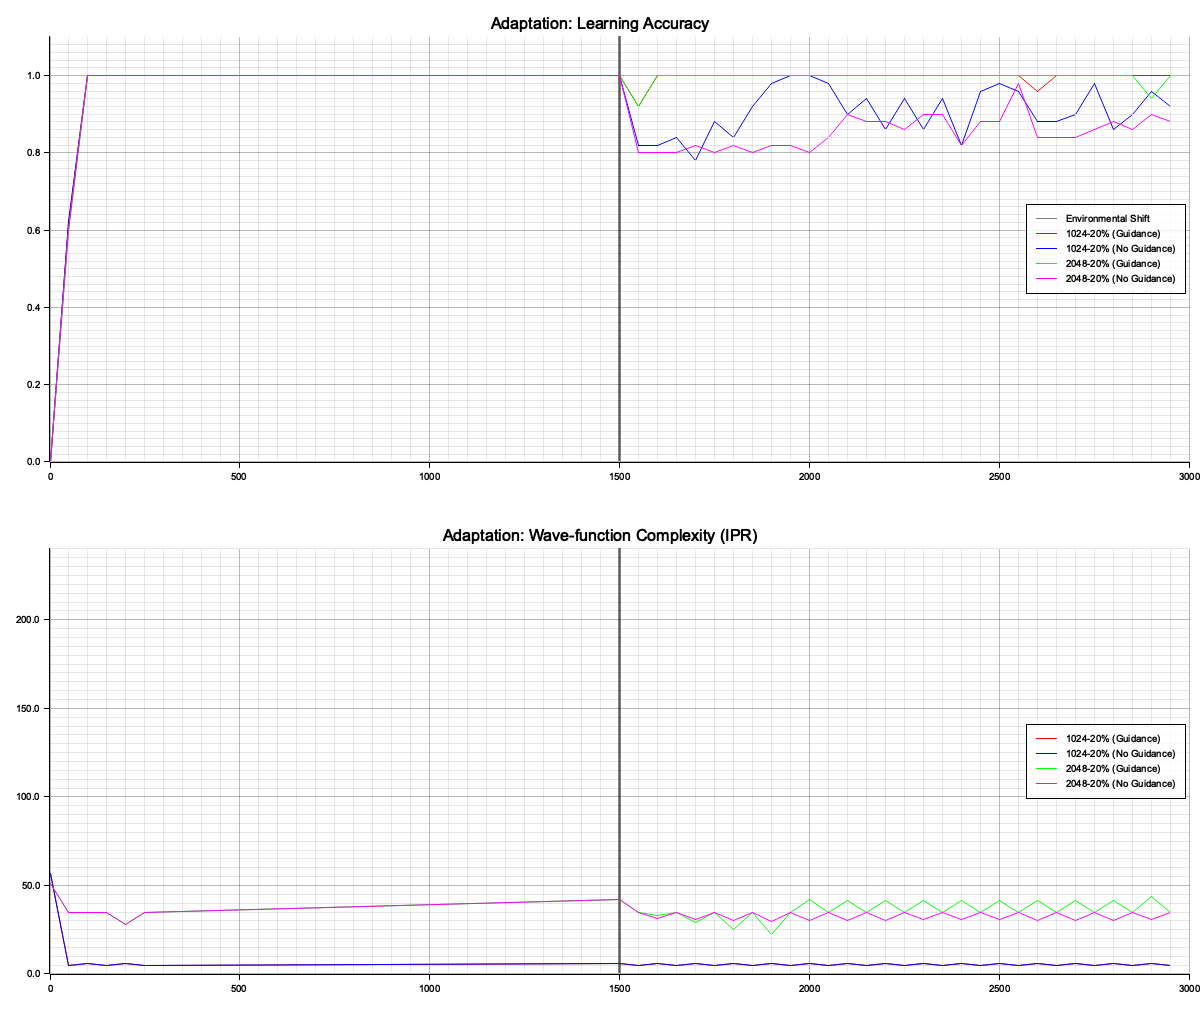
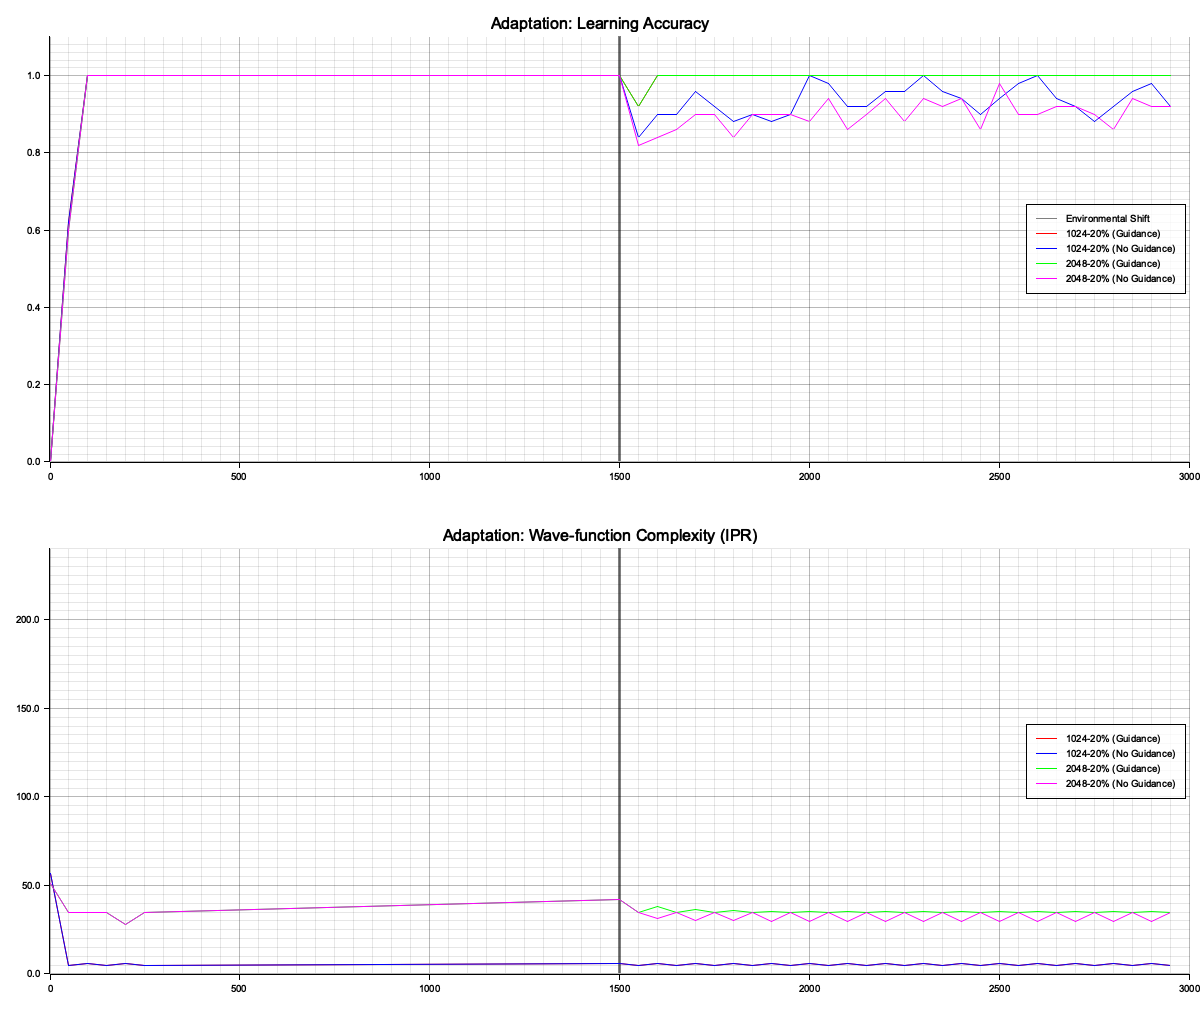
feat: Enhance MWSO with Pure-Phase Correlated Energy Landscape and topological gradient correlations

diff --git a/src/core/mwso.rs b/src/core/mwso.rs
@@ -12,10 +12,11 @@ pub struct MWSO {
     pub gravity_field: Vec<f32>, 
     pub entanglements: Vec<(usize, usize, f32)>, 
     
-    // --- Q-CEL: Quantum-Correlated Energy Landscape ---
-    // A unified holographic correlation field between inputs and states.
+    // --- PP-CEL: Pure-Phase Correlated Energy Landscape ---
     pub q_memory_re: Vec<f64>,
     pub q_memory_im: Vec<f64>,
+    pub q_topo_re: Vec<f64>,   // Topological correlation (Gradients)
+    pub q_topo_im: Vec<f64>,
     pub energy_landscape: Vec<f32>, // Dynamic potential field (V)
     pub input_signature: Vec<f32>,  // Quantized current input (Query)
     
@@ -63,6 +64,8 @@ impl MWSO {
             entanglements,
             q_memory_re: vec![0.0; dim],
             q_memory_im: vec![0.0; dim],
+            q_topo_re: vec![0.0; dim],
+            q_topo_im: vec![0.0; dim],
             energy_landscape: vec![0.0; dim],
             input_signature: vec![0.0; dim],
             scramble_phases,
@@ -82,31 +85,77 @@ impl MWSO {
         }
     }
 
-    /// Q-CEL: Imprints the correlation between the quantized input and the current state.
-    pub fn imprint_qcel(&mut self, input_idx: usize, strength: f32) {
-        // 1. Quantize Input: Generate a basis vector (signature) for the input_idx.
-        // This acts as the "Key" in the query-key memory model.
+    /// PP-CEL: Pure-Phase Correlated Energy Landscape Imprinting.
+    /// Uses pure phase correlations weighted by reward (alpha) with normalization.
+    pub fn imprint_qcel(&mut self, input_idx: usize, reward: f32) {
+        // Alpha: Weight of the memory update (Reward/Confidence)
+        let alpha = reward.max(0.1) as f64;
         let offset = (input_idx as f32 * 1.618).rem_euclid(2.0 * PI);
-        let adaptive_strength = strength as f64 * (1024.0 / self.dim as f32).sqrt() as f64;
+        
+        // Decay factor (Improvement 4: M = (1-lambda)M + alpha*Update)
+        let lambda = 0.002;
+        let dim_norm = (self.dim as f64).sqrt();
 
         for i in 0..self.dim {
+            let next_i = (i + 1) % self.dim;
+
+            // 1. Pointwise correlation (Standard PP-CEL)
+            let psi_re = self.psi_real[i] as f64;
+            let psi_im = self.psi_imag[i] as f64;
+            let psi_mag = (psi_re.powi(2) + psi_im.powi(2)).sqrt() + 1e-9;
+            let u_psi_re = psi_re / psi_mag;
+            let u_psi_im = psi_im / psi_mag;
+
             let sig_phase = self.scramble_phases[i] + offset;
             let (sig_sin, sig_cos) = sig_phase.sin_cos();
+            let sig_re = sig_cos as f64;
+            let sig_im = sig_sin as f64;
+
+            let corr_re = u_psi_re * sig_re + u_psi_im * sig_im;
+            let corr_im = u_psi_im * sig_re - u_psi_re * sig_im;
             
-            // 2. Correlation: Compute the outer product of (psi) and (input_signature).
-            // We store the correlation as: Memory += PSI * conj(Signature)
-            let corr_re = (self.psi_real[i] * sig_cos + self.psi_imag[i] * sig_sin) as f64;
-            let corr_im = (self.psi_imag[i] * sig_cos - self.psi_real[i] * sig_sin) as f64;
+            self.q_memory_re[i] = self.q_memory_re[i] * (1.0 - lambda) + corr_re * alpha / dim_norm;
+            self.q_memory_im[i] = self.q_memory_im[i] * (1.0 - lambda) + corr_im * alpha / dim_norm;
+
+            // 2. Topological Gradient Correlation (Phase differences)
+            let psi_re_next = self.psi_real[next_i] as f64;
+            let psi_im_next = self.psi_imag[next_i] as f64;
+            let psi_mag_next = (psi_re_next.powi(2) + psi_im_next.powi(2)).sqrt() + 1e-9;
+            let u_psi_re_next = psi_re_next / psi_mag_next;
+            let u_psi_im_next = psi_im_next / psi_mag_next;
+
+            // Delta PSI (Relative phase between neighbors)
+            let d_psi_re = u_psi_re * u_psi_re_next + u_psi_im * u_psi_im_next;
+            let d_psi_im = u_psi_im * u_psi_re_next - u_psi_re * u_psi_im_next;
+
+            let sig_phase_next = self.scramble_phases[next_i] + offset;
+            let (sig_sin_next, sig_cos_next) = sig_phase_next.sin_cos();
             
-            self.q_memory_re[i] += corr_re * adaptive_strength;
-            self.q_memory_im[i] += corr_im * adaptive_strength;
-            
-            // Self-organizing decay (forgetting curve)
-            self.q_memory_re[i] *= 0.9997;
-            self.q_memory_im[i] *= 0.9997;
+            // Delta SIG (Relative phase of input signature)
+            let d_sig_re = (sig_cos * sig_cos_next as f32 + sig_sin * sig_sin_next as f32) as f64;
+            let d_sig_im = (sig_sin * sig_cos_next as f32 - sig_cos * sig_sin_next as f32) as f64;
+
+            // Correlate the "shapes" (phase twists)
+            let topo_re = d_psi_re * d_sig_re + d_psi_im * d_sig_im;
+            let topo_im = d_psi_im * d_sig_re - d_psi_re * d_sig_im;
+
+            self.q_topo_re[i] = self.q_topo_re[i] * (1.0 - lambda) + topo_re * alpha / dim_norm;
+            self.q_topo_im[i] = self.q_topo_im[i] * (1.0 - lambda) + topo_im * alpha / dim_norm;
         }
 
-        self.normalize_q_memory((self.dim as f64 * 0.05).min(50.0));
+        // Keep memories bounded
+        self.normalize_q_memory(5.0);
+        self.normalize_q_topo(3.0);
+    }
+
+    fn normalize_q_topo(&mut self, target_norm: f64) {
+        let mut total_energy_sq = 0.0;
+        for i in 0..self.dim { total_energy_sq += self.q_topo_re[i].powi(2) + self.q_topo_im[i].powi(2); }
+        let norm = total_energy_sq.sqrt();
+        if norm > 1e-12 {
+            let factor = target_norm / norm;
+            for i in 0..self.dim { self.q_topo_re[i] *= factor; self.q_topo_im[i] *= factor; }
+        }
     }
 
     fn normalize_q_memory(&mut self, target_norm: f64) {
@@ -143,15 +192,53 @@ impl MWSO {
         let effective_dt = dt * (1.0 + speed_boost);
         let dim_scale = (self.dim as f32).sqrt();
 
-        // --- 1. Q-CEL Retrieval (Query-Key Matching) ---
-        // Retrieve a superposed "recall wave" by correlating current input_signature with q_memory.
+        // --- 1. PP-CEL Retrieval (Phase-Gated Key Matching) ---
+        // Retrieve a superposed "recall wave" by gating the correlation between 
+        // current input_signature and q_memory using Cosine Similarity.
         let mut recall_re = vec![0.0; self.dim];
         let mut recall_im = vec![0.0; self.dim];
+        
+        // Gate threshold (Improvement 2: theta)
+        // High temp = lower threshold (allow more noise), Low temp = stricter matching.
+        let gate_theta = (0.3 + system_temp * 0.4).clamp(0.2, 0.8);
 
         for i in 0..self.dim {
-            let sig_re = self.input_signature[i];
-            recall_re[i] = self.q_memory_re[i] as f32 * sig_re;
-            recall_im[i] = self.q_memory_im[i] as f32 * sig_re;
+            let next_i = (i + 1) % self.dim;
+            let sig_re = self.input_signature[i] as f64;
+            let sig_im = (self.scramble_phases[i] + self.rng_seed as f32).sin() as f64 * 0.1;
+
+            let sig_mag = (sig_re.powi(2) + sig_im.powi(2)).sqrt() + 1e-9;
+            let u_sig_re = sig_re / sig_mag;
+            let u_sig_im = sig_im / sig_mag;
+
+            // 1. Pointwise Recall
+            let rec_re = self.q_memory_re[i] * u_sig_re - self.q_memory_im[i] * u_sig_im;
+            let rec_im = self.q_memory_re[i] * u_sig_im + self.q_memory_im[i] * u_sig_re;
+
+            // 2. Topological Shape Matching (Coherence Filter)
+            // Calculate current local gradient in the query
+            let sig_re_next = self.input_signature[next_i] as f64;
+            let sig_im_next = (self.scramble_phases[next_i] + self.rng_seed as f32).sin() as f64 * 0.1;
+            let sig_mag_next = (sig_re_next.powi(2) + sig_im_next.powi(2)).sqrt() + 1e-9;
+            
+            // Delta SIG (Relative phase of current query neighbors)
+            let d_sig_re = (u_sig_re * (sig_re_next / sig_mag_next) + u_sig_im * (sig_im_next / sig_mag_next));
+            let d_sig_im = (u_sig_im * (sig_re_next / sig_mag_next) - u_sig_re * (sig_im_next / sig_mag_next));
+
+            // Matching with stored Topological patterns
+            let topo_match = (self.q_topo_re[i] * d_sig_re + self.q_topo_im[i] * d_sig_im).max(0.0);
+            let shape_coherence = (topo_match as f32 * 2.0).clamp(0.5, 2.5);
+
+            // g(corr): Cosine Similarity Gate with Shape Coherence boost
+            let corr_strength = (rec_re.powi(2) + rec_im.powi(2)).sqrt();
+            let gate = if corr_strength > (gate_theta as f64 / shape_coherence as f64) {
+                ((corr_strength * shape_coherence as f64) - gate_theta as f64).max(0.0) / (1.0 - gate_theta as f64)
+            } else {
+                0.0
+            };
+
+            recall_re[i] = (rec_re * gate) as f32;
+            recall_im[i] = (rec_im * gate) as f32;
         }
 
         // --- 2. Dynamic Energy Landscape (V) with Thermal Fluctuation ---
@@ -241,7 +328,7 @@ impl MWSO {
         let spread = 3; // Number of neighboring indices to influence
 
         for i in 0..self.dim {
-            self.input_signature[i] *= 0.8; // Momentum-like decay for smooth transition
+            self.input_signature[i] *= 0.7; // Momentum-like decay
         }
 
         for j in 0..spread {
@@ -252,6 +339,12 @@ impl MWSO {
                 self.input_signature[i] += sig_phase.cos() * strength * weight;
             }
         }
+
+        // Improvement 3: Normalize signature energy
+        let mut total_sig = 1e-9;
+        for i in 0..self.dim { total_sig += self.input_signature[i].powi(2); }
+        let sig_norm = total_sig.sqrt();
+        for i in 0..self.dim { self.input_signature[i] /= sig_norm; }
     }
 
     fn normalize(&mut self, target_norm: f32) {
